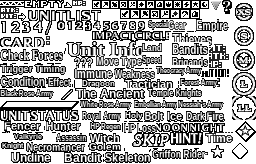
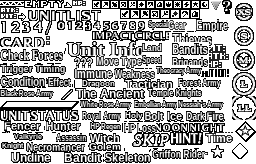
Phase 8: verdicts by hand (s24: prologue, ending, epilogue, credits, medallion, menus); fixes: battle HUD Forest Army remnants (SYSTEX), End Turn labels centred (TEND_FONT, gen_gfx dx=), gameover rows (GMOVERFONT); tools/inkx.py; char_intro tour hold-only; status

Changed region(s): [[0.6875, 0.4573, 0.875, 0.5488]]

diff --git a/tools/inkx.py b/tools/inkx.py
@@ -1,0 +1,33 @@
+"""inkx.py: horizontal extent and centre of near-white text fill inside rects of a screenshot.
+
+inkbox.py takes the rect's commonest colour as background, which fails on the game's gradient buttons; the text
+fill here is white, so this measures only pixels whose channels are all > --min. Compare with the original ROM's
+shot of the same frame (work/qa/tour_jp) to judge centring:
+
+    python -X utf8 tools/inkx.py SHOT.png x,y,w,h [x,y,w,h ..] [--min 215]
+"""
+import argparse
+
+from PIL import Image
+
+
+def extent(im, rect, lo):
+    x, y, w, h = rect
+    xs = [i for i in range(x, x + w) for j in range(y, y + h) if min(im.getpixel((i, j))) > lo]
+    return (min(xs), max(xs)) if xs else None
+
+
+def main():
+    p = argparse.ArgumentParser(description=__doc__, formatter_class=argparse.RawDescriptionHelpFormatter)
+    p.add_argument("png")
+    p.add_argument("rects", nargs="+")
+    p.add_argument("--min", type=int, default=215)
+    a = p.parse_args()
+    im = Image.open(a.png).convert("RGB")
+    for r in a.rects:
+        e = extent(im, tuple(map(int, r.split(","))), a.min)
+        print(r, *(e + ((e[0] + e[1]) / 2,) if e else ("none",)))
+
+
+if __name__ == "__main__":
+    main()

diff --git a/tools/gen_gfx.py b/tools/gen_gfx.py
@@ -7,6 +7,7 @@ PREFIX (a row's own options win). Options (space separated, key=value):
   font=serif-b  serif-b serif sans-b sans (fonts/, docs/fonts.md)
   size=N        px (default: the largest that fits the box height per line, capped by width after squeezing)
   align=c       l / c / r inside the box;  wide=N  how far the text may spread past the box (default: to the edge)
+  dx=N          shift the text N px after aligning (the game draws the rect off its centre: match the original's ink)
   rows=N        line pitch = box h / N even when the text has fewer lines (it takes the top ones)
   maxw=N        widest the text may be, px (the part of the texture the screen shows; overrides wide)
   stroke=1      outline px;  min_x=0.7  narrowest horizontal squeeze before the size shrinks
@@ -157,6 +158,7 @@ def draw(a, text, o):
         ox = x - stroke - 2
     else:
         ox = x + w - nw + stroke + 2
+    ox += int(o.get("dx", 0))
     oy = y - 2
     for r in range(ch):
         for c in range(nw):

diff --git a/tests/test_gfx.py b/tests/test_gfx.py
@@ -31,3 +31,17 @@ def test_gen_gfx_clears():
     box = a[5:25, 10:50]
     assert not ((box[..., 0] == 255) & (box[..., 1] == 0) & (box[..., 2] == 0)).any()
     gen_gfx.draw(a, "Ab", {"box": "0,0,30,10", "clear": "fill"})
+
+
+def test_gen_gfx_dx_and_inkx():
+    """dx shifts the drawn text; inkx measures where the white fill landed."""
+    import gen_gfx
+    import inkx
+    from PIL import Image
+    cols = []
+    for dx in (0, -7):
+        a = np.zeros((20, 100, 4), np.uint8)
+        a[...] = (0, 0, 128, 255)
+        gen_gfx.draw(a, "Retry", {"box": "20,2,60,15", "fill": "255,255,255", "dx": str(dx)})
+        cols.append(inkx.extent(Image.fromarray(a[..., :3]), (0, 0, 100, 20), 215))
+    assert cols[0] and cols[1][0] == cols[0][0] - 7 and cols[1][1] == cols[0][1] - 7

diff --git a/docs/status.md b/docs/status.md
@@ -3,7 +3,25 @@
 Updated at the end of every session. Keep it to what the next session needs; history is in git (session-by-session
 phase 5 notes: `git show 1765c13:docs/status.md`).
 
-- **Phase:** 8. QA in the emulator in progress (phase 7 done 2026-11-10, session 13; session 23 latest).
+- **Phase:** 8. QA in the emulator in progress (phase 7 done 2026-11-10, session 13; session 24 latest).
+- **Phase 8 progress (session 24):** build 2026-11-10 17:43 sha1 7fc5f325 (smoke ok). Verdicts by hand (codex out
+  until 2026-11-11 13:07) in work/qa/verdicts/s24.tsv: all prologue_f01-f11 (sheet_2/3 of f02-f11 are pixel-identical
+  to f01 outside the leader bubble: bubbles checked on one crop sheet), ending_f01/f02, epilogue_f01, credits,
+  medallion, faction_select, card_select, attract_op 1-2, gameover/sheet_2, turn_end/sheet. Fixes: battle HUD
+  "Forest Army" had 森林軍 remnants at both ends (SYSTEX box 177,78,44,11); End Turn menu labels (TEND_FONT) drawn
+  12-14 px left of the original's centre -> new gen_gfx `dx=N` (shift after align; test in test_gfx); gameover Easy
+  Retry / Back to Title 7 px right -> dx=-7, stray dot left of Easy Retry = atlas column 159 not cleared (box from
+  159). New `tools/inkx.py` (centre of white text fill: inkbox.py misreads the gradient buttons; compare with the
+  tour_jp frame): CONFIRM OK / CANCEL and confirm messages match the original, gameover rows now match. char_intro
+  tour case is hold-only (`EVERY=90 TOUR='2400-'`): its tour_jp sheets are from the old route, rerun
+  `regen.py --list tools/debug/tour.txt --qa work/qa/tour_jp char_intro` (original ROM default) before judging it.
+  Reran battle char_intro gameover explore turn_end prize prisoner on 7fc5f325, manifest re-inited with --build
+  (3 stale ids of vanished sheets dropped). **Next worker: 30 sheets still lack verdicts** (`qa_gate.py check
+  work/qa/manifest.tsv work/qa/verdicts | grep "NO VERDICT"`): battle, char_intro 1-5, explore 1-3, prisoner 1-3,
+  prize 1+3, save 1-3, sortie, territory 2-3, title, turn_end 2-3, tutorial 1-3, war_report 1-3, gameover/sheet.
+  Then the rest of the done-when: graphics-text rows seen in zoomed shots (BTLMN pause menu, explore map TREFONT,
+  prisoner ENETREFONT, save slots, war-event `_unk`), textcover (113/13,723 strings shown: needs MESSAGE / SPMES /
+  EDMES / TUTO scenes).
 - **Phase 8 progress (session 23):** visual-QA verdicts by hand (codex out) for chunk_000-004 and the first 6 ids of
   chunk_005 (prize, prologue_f00): work/qa/verdicts/chunk_000..005.tsv. **Next worker: continue at chunk_005 id 7
   (prologue_f01/sheet) through chunk_010**, same method (EN sheet, JP under tour_jp when unsure). Issues found and

diff --git a/docs/skill-gotchas.md b/docs/skill-gotchas.md
@@ -46,3 +46,4 @@ references/graphics.md: NDS 3D-texture games (no tiles/VRAM): keep the original 
 - references/emulator-qa.md §Visual QA: a cold-boot tour needs no savestates per ROM: give the warp script a TOUR route played once the scene is reached (shots every N frames, finish when the route ends), so the same list tours the English build and the original (tools/debug/tour.txt, warp.lua TOUR/EVERY).
 - references/emulator-qa.md §Text coverage: when strings live in RAM buffers (script files loaded per event) and a relocated block, key coverage by content: hash the bytes before the terminator at each draw entry (Lua, no bit ops: h = (h*31 + b + 1) mod 4294967291) and write the same hash per id from the build's encoded strings (tools/lua/textcover.lua + tools/cover.py).
 - references/emulator-qa.md §Visual QA: codex exec can hit its usage limit mid-project (Orca worker with no subagents): the read-only verdict pass then falls back to the main agent's own context, ~1.5k tokens per 1024x768 sheet, so plan ~80 sheets per fresh worker.
+- emulator-qa.md: inkbox.py takes the rect's commonest colour as background, so on gradient buttons it reports nonsense margins; measure the text fill (white pixels) instead and compare with the original's frame (tools/inkx.py here).
